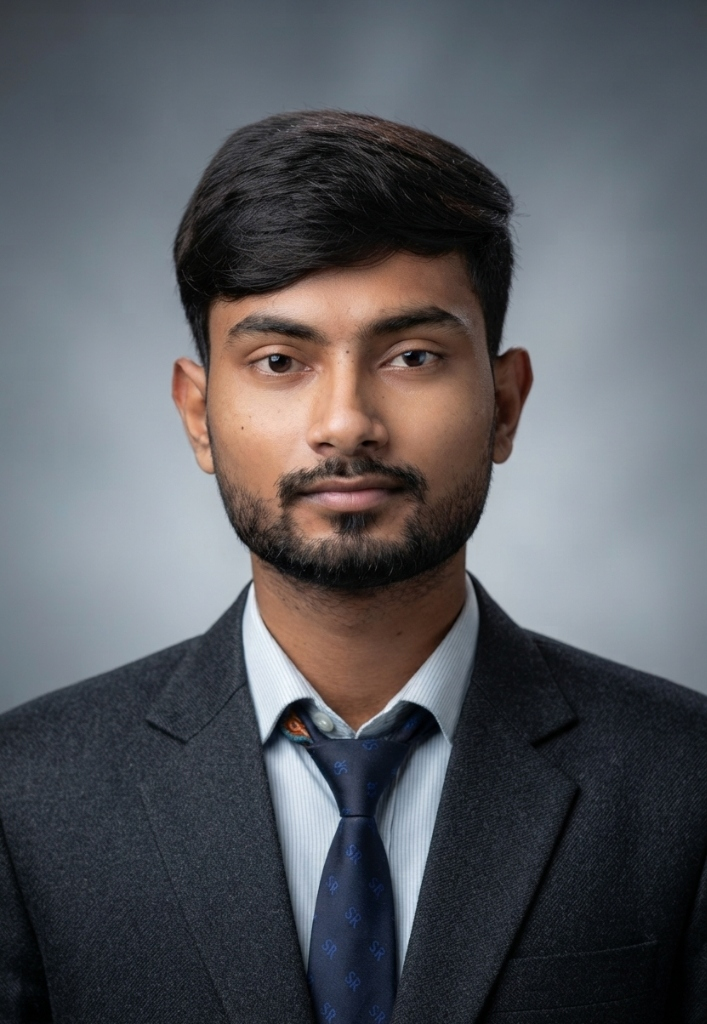
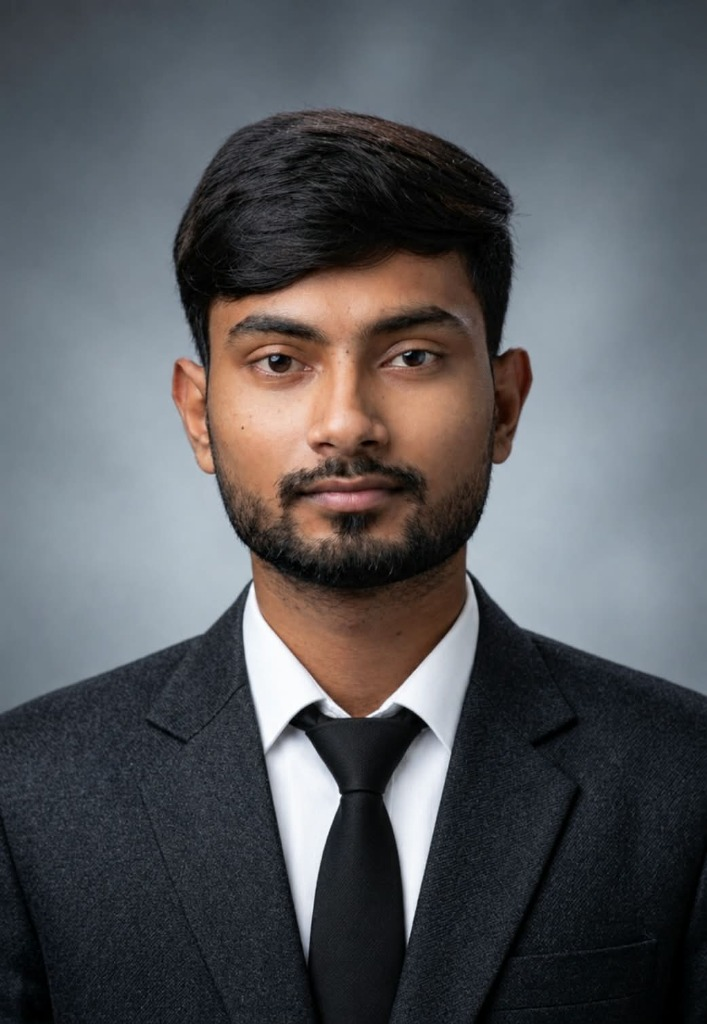
fix(upload): upload new profile photo and enable persistent real-time image uploads across admin and user panels

Changed region(s): [[0.3423, 0.5625, 0.6846, 1.0], [0.4668, 0.5, 0.4979, 0.5312]]

diff --git a/client/src/services/localDataService.js b/client/src/services/localDataService.js
@@ -36,7 +36,7 @@ const KEY_TO_ENTITY = {
   [STORAGE_KEYS.ACTIVITY]: "activity",
 };
 
-const CURRENT_VERSION = "2026_09_13_v7";
+const CURRENT_VERSION = "2026_10_04_v9";
 let isInitializing = false;
 
 function getStorage(key, defaultVal) {
@@ -194,12 +194,17 @@ export function handleLocalRequest(method, url, data) {
     }
     if (upperMethod === "PUT" || upperMethod === "PATCH") {
       if (subOrId === "photo") {
-        let photoUrl = "/profile.jpg";
+        let photoUrl = "/profile.jpg?v=20261004";
         if (typeof FormData !== "undefined" && body instanceof FormData) {
           const fileObj = body.get("file");
-          if (fileObj) {
+          const dataUrl = body.get("dataUrl");
+          if (dataUrl) {
+            photoUrl = dataUrl;
+          } else if (fileObj) {
             try { photoUrl = URL.createObjectURL(fileObj); } catch (e) {}
           }
+        } else if (body?.dataUrl) {
+          photoUrl = body.dataUrl;
         } else if (body?.url) {
           photoUrl = body.url;
         }
@@ -215,10 +220,19 @@ export function handleLocalRequest(method, url, data) {
         let resumeName = "Ajit_Kumar_Resume.pdf";
         if (typeof FormData !== "undefined" && body instanceof FormData) {
           const fileObj = body.get("file");
+          const dataUrl = body.get("dataUrl");
+          if (dataUrl) {
+            resumeUrl = dataUrl;
+          }
           if (fileObj) {
             resumeName = fileObj.name || resumeName;
-            try { resumeUrl = URL.createObjectURL(fileObj); } catch (e) {}
+            if (!dataUrl) {
+              try { resumeUrl = URL.createObjectURL(fileObj); } catch (e) {}
+            }
           }
+        } else if (body?.dataUrl) {
+          resumeUrl = body.dataUrl;
+          resumeName = body.originalName || resumeName;
         } else if (body?.url) {
           resumeUrl = body.url;
           resumeName = body.originalName || resumeName;
@@ -648,24 +662,30 @@ export function handleLocalRequest(method, url, data) {
     if (upperMethod === "POST") {
       let fileName = "upload_" + Date.now() + ".jpg";
       let fileSize = 150000;
-      let fileUrl = "/profile.jpg";
+      let fileUrl = "/profile.jpg?v=20261004";
       let fileType = "image/jpeg";
 
       if (typeof FormData !== "undefined" && body instanceof FormData) {
         const fileObj = body.get("file");
+        const dataUrl = body.get("dataUrl");
+        if (dataUrl) {
+          fileUrl = dataUrl;
+        }
         if (fileObj) {
           fileName = fileObj.name || fileName;
           fileSize = fileObj.size || fileSize;
           fileType = fileObj.type || fileType;
-          try {
-            fileUrl = URL.createObjectURL(fileObj);
-          } catch (e) {}
+          if (!dataUrl) {
+            try {
+              fileUrl = URL.createObjectURL(fileObj);
+            } catch (e) {}
+          }
         }
       } else if (body && typeof body === "object") {
         fileName = body.filename || body.originalName || fileName;
         fileSize = body.size || fileSize;
         fileType = body.type || body.fileType || fileType;
-        fileUrl = body.url || fileUrl;
+        fileUrl = body.dataUrl || body.url || fileUrl;
       }
 
       const isDoc = fileType.includes("pdf") || fileName.toLowerCase().endsWith(".pdf");
@@ -723,17 +743,23 @@ export function handleLocalRequest(method, url, data) {
 
       if (typeof FormData !== "undefined" && body instanceof FormData) {
         const fileObj = body.get("file");
+        const dataUrl = body.get("dataUrl");
+        if (dataUrl) {
+          fileUrl = dataUrl;
+        }
         if (fileObj) {
           fileName = fileObj.name || fileName;
           fileSize = fileObj.size || fileSize;
-          try {
-            fileUrl = URL.createObjectURL(fileObj);
-          } catch (e) {}
+          if (!dataUrl) {
+            try {
+              fileUrl = URL.createObjectURL(fileObj);
+            } catch (e) {}
+          }
         }
       } else if (body && typeof body === "object") {
         fileName = body.filename || body.originalName || fileName;
         fileSize = body.size || fileSize;
-        fileUrl = body.url || fileUrl;
+        fileUrl = body.dataUrl || body.url || fileUrl;
       }
 
       const newResume = {

diff --git a/client/src/utils/imageCompressor.js b/client/src/utils/imageCompressor.js
@@ -1,0 +1,72 @@
+/**
+ * Utility to compress images client-side into lightweight, persistent Base64 Data URLs.
+ * Enables instant cross-tab synchronization and static hosting persistence without relying on ephemeral blob: URLs.
+ */
+export async function fileToDataUrl(file, maxDimension = 1200, quality = 0.82) {
+  if (!file) return '';
+
+  // PDFs are read directly into Data URLs without canvas processing
+  if (file.type?.includes('pdf') || file.name?.toLowerCase().endsWith('.pdf')) {
+    return new Promise((resolve) => {
+      const reader = new FileReader();
+      reader.onload = () => resolve(reader.result || '');
+      reader.onerror = () => resolve('');
+      reader.readAsDataURL(file);
+    });
+  }
+
+  // Optimize images with Canvas resizing & compression
+  return new Promise((resolve) => {
+    const reader = new FileReader();
+    reader.onload = (readerEvent) => {
+      const img = new Image();
+      img.onload = () => {
+        let width = img.width;
+        let height = img.height;
+
+        // Downscale while preserving aspect ratio
+        if (width > maxDimension || height > maxDimension) {
+          if (width > height) {
+            height = Math.round((height * maxDimension) / width);
+            width = maxDimension;
+          } else {
+            width = Math.round((width * maxDimension) / height);
+            height = maxDimension;
+          }
+        }
+
+        const canvas = document.createElement('canvas');
+        canvas.width = width;
+        canvas.height = height;
+
+        const ctx = canvas.getContext('2d');
+        if (!ctx) {
+          return resolve(readerEvent.target?.result || '');
+        }
+
+        // Fill white background for transparent images converted to jpeg
+        const isPng = file.type === 'image/png';
+        if (!isPng) {
+          ctx.fillStyle = '#ffffff';
+          ctx.fillRect(0, 0, width, height);
+        }
+
+        ctx.drawImage(img, 0, 0, width, height);
+
+        const mime = isPng ? 'image/png' : 'image/jpeg';
+        try {
+          const compressedDataUrl = canvas.toDataURL(mime, quality);
+          resolve(compressedDataUrl);
+        } catch (e) {
+          resolve(readerEvent.target?.result || '');
+        }
+      };
+
+      img.onerror = () => resolve(readerEvent.target?.result || '');
+      img.src = readerEvent.target?.result;
+    };
+
+    reader.onerror = () => resolve('');
+    reader.readAsDataURL(file);
+  });
+}

diff --git a/client/src/components/admin/ImageUploadZone.jsx b/client/src/components/admin/ImageUploadZone.jsx
@@ -4,6 +4,7 @@ import api from '../../services/api.js';
 import toast from 'react-hot-toast';
 import MediaPickerModal from './MediaPickerModal.jsx';
 import { resolveAssetUrl } from '../../utils/assetUrl.js';
+import { fileToDataUrl } from '../../utils/imageCompressor.js';
 
 export default function ImageUploadZone({
   value = '',
@@ -35,19 +36,37 @@ export default function ImageUploadZone({
       return;
     }
 
-    const formData = new FormData();
-    formData.append('file', file);
-
     setIsUploading(true);
     try {
-      const { data } = await api.post('/media/upload', formData, {
-        headers: { 'Content-Type': 'multipart/form-data' },
-      });
+      // 1. Generate lightweight, persistent Base64 Data URL
+      const dataUrl = await fileToDataUrl(file);
 
-      const uploadedUrl = data.data?.url || data.url;
-      const mediaObject = data.data || data;
+      const formData = new FormData();
+      formData.append('file', file);
+      if (dataUrl) {
+        formData.append('dataUrl', dataUrl);
+      }
+
+      let uploadedUrl = dataUrl;
+      let mediaObject = null;
+
+      try {
+        const { data } = await api.post('/media/upload', formData, {
+          headers: { 'Content-Type': 'multipart/form-data' },
+        });
+        uploadedUrl = data.data?.url || data.url || dataUrl;
+        mediaObject = data.data || data;
+      } catch (apiErr) {
+        console.warn('Backend upload skipped or failed, using persistent data URL:', apiErr);
+      }
+
+      // If backend gave an ephemeral blob URL or failed, ensure we use the persistent dataUrl
+      if (!uploadedUrl || uploadedUrl.startsWith('blob:')) {
+        uploadedUrl = dataUrl;
+      }
+
       setPreviewUrl(uploadedUrl);
-      if (onChange) onChange(uploadedUrl, mediaObject);
+      if (onChange) onChange(uploadedUrl, mediaObject || { url: uploadedUrl, filename: file.name });
       toast.success('Asset uploaded successfully');
     } catch (err) {
       toast.error(err.response?.data?.message || 'Failed to upload asset');

diff --git a/client/src/components/admin/MediaPickerModal.jsx b/client/src/components/admin/MediaPickerModal.jsx
@@ -3,6 +3,7 @@ import { X, Search, Image as ImageIcon, FileText, UploadCloud, Check } from 'luc
 import api from '../../services/api.js';
 import toast from 'react-hot-toast';
 import { resolveAssetUrl } from '../../utils/assetUrl.js';
+import { fileToDataUrl } from '../../utils/imageCompressor.js';
 
 export default function MediaPickerModal({ isOpen, onClose, onSelect, filterType = 'all' }) {
   const [mediaList, setMediaList] = useState([]);
@@ -35,15 +36,40 @@ export default function MediaPickerModal({ isOpen, onClose, onSelect, filterType
     const file = e.target.files?.[0];
     if (!file) return;
 
-    const formData = new FormData();
-    formData.append('file', file);
-
     setUploading(true);
     try {
-      const res = await api.post('/media/upload', formData, {
-        headers: { 'Content-Type': 'multipart/form-data' },
-      });
-      const newMedia = res.data?.data || res.data;
+      const dataUrl = await fileToDataUrl(file);
+
+      const formData = new FormData();
+      formData.append('file', file);
+      if (dataUrl) {
+        formData.append('dataUrl', dataUrl);
+      }
+
+      let newMedia = null;
+      try {
+        const res = await api.post('/media/upload', formData, {
+          headers: { 'Content-Type': 'multipart/form-data' },
+        });
+        newMedia = res.data?.data || res.data;
+      } catch (err) {
+        console.warn('API upload failed, using local media object:', err);
+      }
+
+      if (!newMedia || newMedia.url?.startsWith('blob:')) {
+        newMedia = {
+          _id: 'med_' + Date.now(),
+          id: 'med_' + Date.now(),
+          filename: file.name,
+          originalName: file.name,
+          url: dataUrl,
+          type: file.type?.includes('pdf') ? 'document' : 'image',
+          mimeType: file.type || 'image/jpeg',
+          size: file.size,
+          createdAt: new Date().toISOString(),
+        };
+      }
+
       toast.success('Asset uploaded successfully');
       setMediaList((prev) => [newMedia, ...prev]);
       if (onSelect) {

diff --git a/client/src/pages/admin/ProfilePage.jsx b/client/src/pages/admin/ProfilePage.jsx
@@ -362,13 +362,40 @@ export default function ProfilePage() {
             <ImageUploadZone
               label="Profile Picture / Avatar"
               value={formData.avatar}
-              onChange={(url) => setFormData((prev) => ({ ...prev, avatar: url }))}
+              onChange={async (url) => {
+                setFormData((prev) => ({ ...prev, avatar: url }));
+                if (url) {
+                  try {
+                    await api.put('/profile', {
+                      profileImage: { url, publicId: 'profile_avatar' },
+                      avatar: url,
+                    });
+                    toast.success('Profile photo updated & live on public portfolio!');
+                  } catch (e) {
+                    console.warn('Auto-save photo error:', e);
+                  }
+                }
+              }}
               hint="Select from library or upload new PNG/JPG"
             />
             <ImageUploadZone
               label="Resume PDF"
               value={formData.resumeUrl}
-              onChange={(url) => setFormData((prev) => ({ ...prev, resumeUrl: url }))}
+              onChange={async (url, mediaObj) => {
+                const rName = mediaObj?.filename || mediaObj?.originalName || 'Ajit_Kumar_Resume.pdf';
+                setFormData((prev) => ({ ...prev, resumeUrl: url }));
+                if (url) {
+                  try {
+                    await api.put('/profile', {
+                      resume: { url, originalName: rName, uploadedAt: new Date().toISOString() },
+                      resumeUrl: url,
+                    });
+                    toast.success('Resume updated & live on public portfolio!');
+                  } catch (e) {
+                    console.warn('Auto-save resume error:', e);
+                  }
+                }
+              }}
               accept="application/pdf"
               hint="Official PDF resume for visitor downloads"
             />

diff --git a/client/src/pages/admin/ResumePage.jsx b/client/src/pages/admin/ResumePage.jsx
@@ -7,6 +7,7 @@ import api from '../../services/api.js';
 import toast from 'react-hot-toast';
 import ConfirmDialog from '../../components/admin/ConfirmDialog.jsx';
 import { resolveAssetUrl } from '../../utils/assetUrl.js';
+import { fileToDataUrl } from '../../utils/imageCompressor.js';
 
 export default function ResumePage() {
   const [resumes, setResumes] = useState([]);
@@ -83,11 +84,15 @@ export default function ResumePage() {
       return;
     }
 
-    const formData = new FormData();
-    formData.append('file', file);
-
     setUploading(true);
     try {
+      const dataUrl = await fileToDataUrl(file);
+      const formData = new FormData();
+      formData.append('file', file);
+      if (dataUrl) {
+        formData.append('dataUrl', dataUrl);
+      }
+
       await api.post('/resume', formData, {
         headers: { 'Content-Type': 'multipart/form-data' },
       });

diff --git a/client/src/components/public/Hero.jsx b/client/src/components/public/Hero.jsx
@@ -14,7 +14,7 @@ export default function Hero({ profile, settings }) {
   const title = profile?.title || 'Full Stack Developer & AI Engineer';
   const tagline = profile?.tagline || 'Skilled in MERN Stack, Generative AI, JWT authentication, and Scalable Cloud Systems.';
   const years = profile?.yearsOfExperience || 2;
-  const photoUrl = resolveAssetUrl(profile?.profileImage?.url || '/profile.jpg');
+  const photoUrl = resolveAssetUrl(profile?.profileImage?.url || '/profile.jpg?v=20261004');
 
   // Typewriter effect phrases
   const phrases = [
